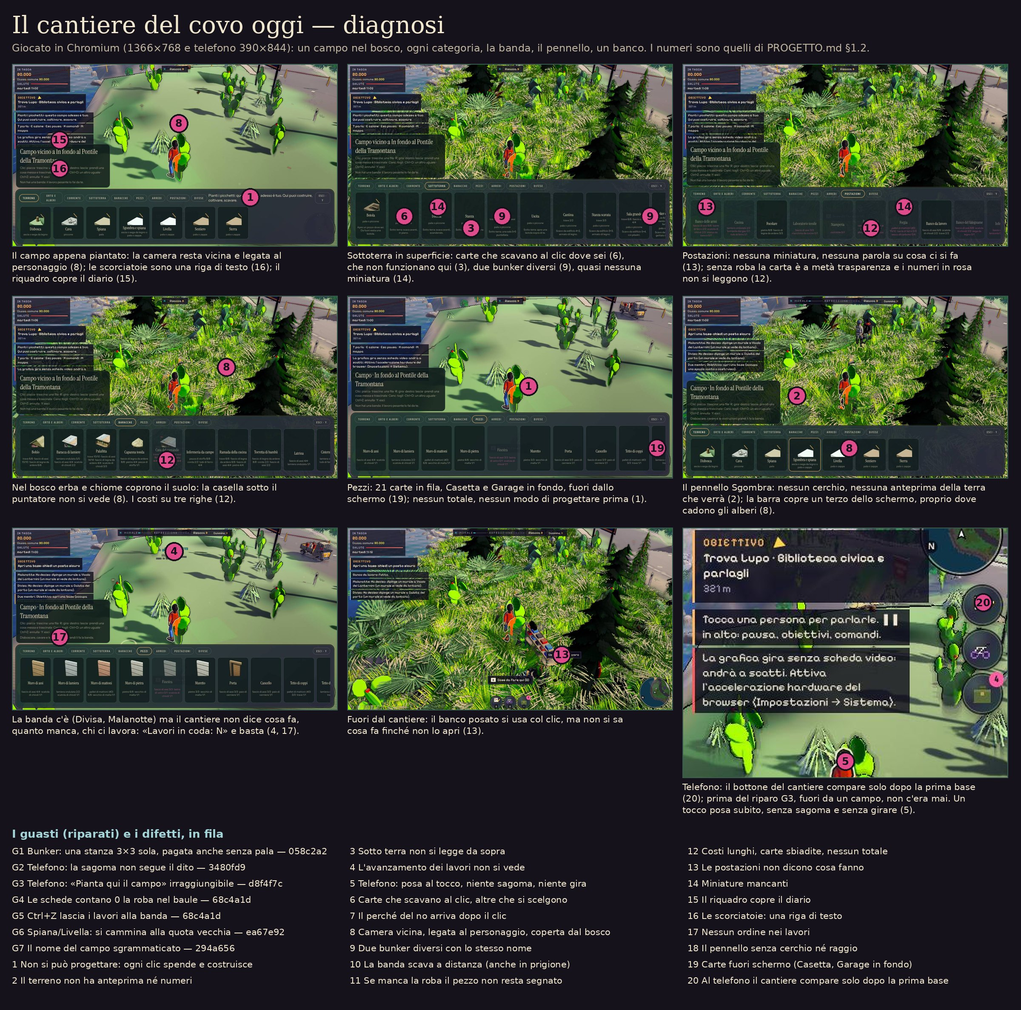
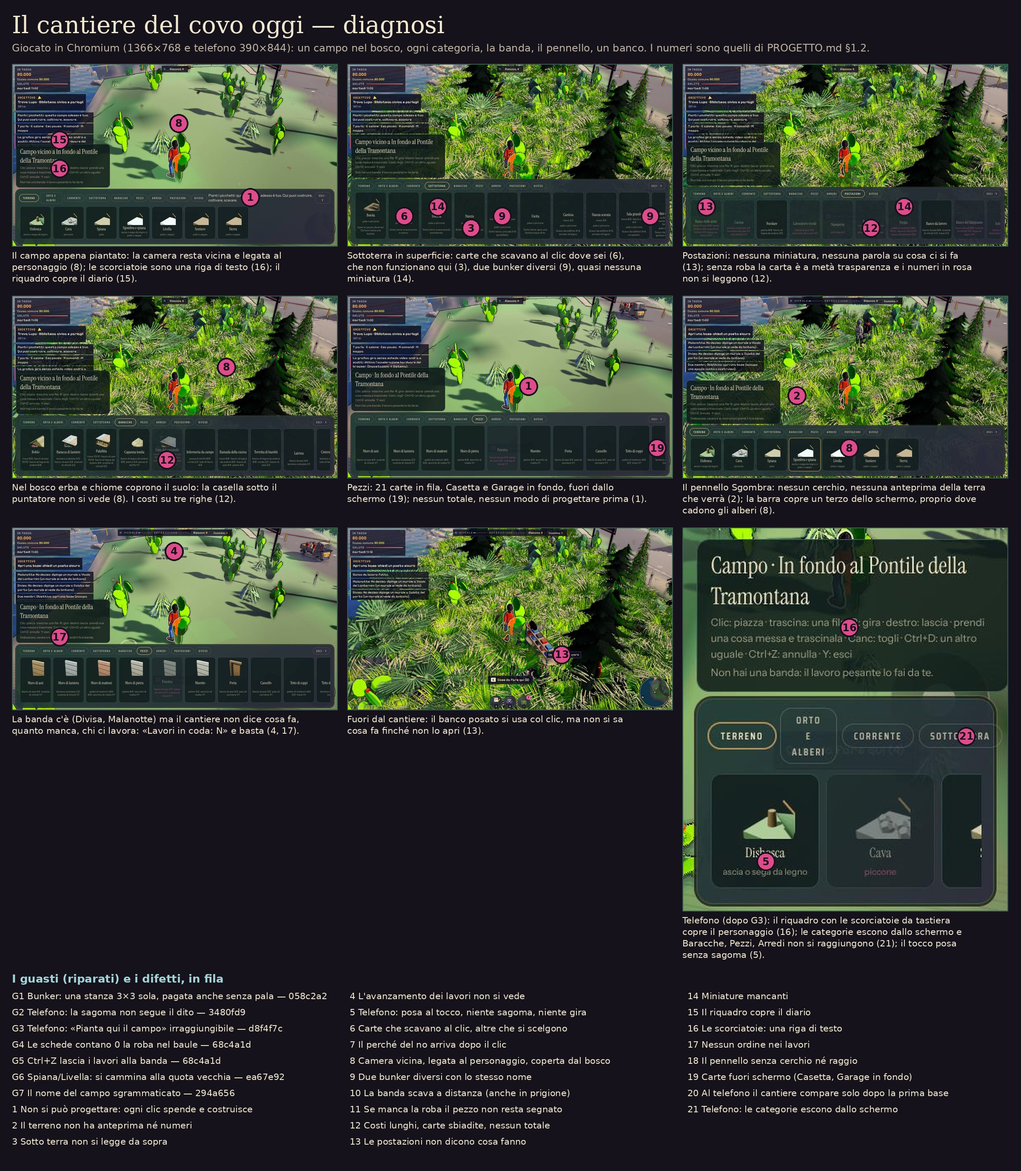
[progetto] diagnosi: il telefono provato (categorie fuori schermo); punti deboli e domande
Claude-Session: https://claude.ai/code/session_01HEgRdvDzPRTJ6i6GxVpTB4

diff --git a/v7/PROGETTO.md b/v7/PROGETTO.md
@@ -36,7 +36,7 @@ tracciato e scavato. In più la lettura del codice (`cantiere.js`, `livelli.js`,
 
 ### 1.2 Quello che non si capisce, non si legge, non si usa (in fila per gravità)
 
-Contati: **20** difetti di usabilità (più i 7 guasti). In fila: prima quelli che impediscono di fare quello che la richiesta
+Contati: **21** difetti di usabilità (più i 7 guasti). In fila: prima quelli che impediscono di fare quello che la richiesta
 chiede, poi quelli che fanno sbagliare, poi quelli che rallentano.
 
 **Impediscono**
@@ -77,6 +77,8 @@ chiede, poi quelli che fanno sbagliare, poi quelli che rallentano.
     (nella prova il clic sulla Casetta è caduto fuori).
 20. **Al telefono il cantiere compare solo dopo la prima base** (`orienta.js`, lo svelare piano): sul computer la Y funziona da subito
     ma nessuno lo dice. È una scelta, non un guasto: va bene, ma allora serve dirlo quando la base arriva.
+21. **Al telefono le categorie escono dallo schermo**: la fila di pillole non va a capo e non scorre; Baracche, Pezzi, Arredi,
+    Postazioni non si toccano. Il riquadro in alto mostra le scorciatoie da tastiera e copre il personaggio.
 
 Note sulla prova: con SwiftShader un fotogramma costa 4–6 s a 1366×768, una schermata 1–2 minuti; per questo la banda al lavoro,
 lo scavo e il banco aperto si sono provati anche in Node (`test_cantiere.js`, `test_progetto.js`) e leggendo il codice.
@@ -251,4 +253,29 @@ Aprire il gioco con `?progetto` nell'indirizzo (per esempio `index.html?progetto
 
 ## 5. Punti deboli e domande aperte
 
-<!-- DEBOLI -->
+**Punti deboli (onesti)**
+- **Provato poco su schermo vero.** Qui il browser gira in SwiftShader: 3–6 s a fotogramma, una schermata 1–2 minuti. La logica è
+  provata in Node (50 prove), la grafica e i gesti in poche passate guidate; il trascinamento lungo, il pizzico e la torsione al
+  telefono, la sensazione della camera vanno provati su una scheda vera e su un telefono vero.
+- **Le misure di costo sono di SwiftShader** (il fotogramma lì è dominato dal resto della scena): dicono che la vista non aggiunge
+  niente di misurabile, non quanti ms costa su Iris Xe. Il conto dei disegni e dei triangoli è quello che conta (§3.1).
+- **La camera è quella dell'editor** (`ui.focus` + la vista dall'alto di `ui.top`): funziona, ma la pendenza «di sbieco» non si
+  regola e la distanza segue lo zoom del gioco; con la camera7 il passaggio dentro/fuori non è sfumato.
+- **La sezione di sotto vela il mondo ma non lo taglia**: non c'è un vero piano di taglio nel terreno (servirebbe toccare render.js).
+  Le gallerie vere si vedono entro 34 caselle dal centro della vista.
+- **Gli scavi hanno il fondo piatto.** Una galleria prende la quota del cunicolo a cui si aggancia; per scendere di livello serve un
+  pozzo nuovo (o J/K a mano). Mancano rampe e scale nel progetto.
+- **I pezzi «in corso» non sono solidi** finché non sono finiti (la gente ci passa attraverso); il garage e le baracche diventano veri
+  in un colpo alla fine (prima: l'ologramma che si riempie).
+- **La banda non scende sotto terra**: per uno scavo il membro va sopra lo scavo e ci «lavora» da lì (come prima, ma almeno ci va).
+- **La terra non è un materiale**: lo scavo non dà terra e il riporto non la chiede (si dice soltanto quanti m³).
+- **Il cantiere di prima resta** (dentro casa, l'orto, le azioni sul posto): due modi di costruire convivono.
+
+**Domande per te**
+1. La vista deve **sostituire** il cantiere di prima all'aperto (come adesso con `?progetto`) o stare accanto (un tasto in più)?
+2. **La roba**: si paga tutta quando il pezzo comincia (adesso), o a pezzi mentre si costruisce (più realistico, ma la distinta si legge peggio)?
+3. **La terra** deve diventare un materiale (sacchi di terra da portare per i riporti, da buttare per gli scavi)?
+4. **Il giocatore che lavora**: basta stare lì (adesso), o vuoi un gesto (tenere premuto, un'animazione col martello)?
+5. **Al telefono** il bottone del cantiere compare solo dopo la prima base (orienta.js): con la vista progettuale va anticipato?
+6. Il colore dell'ologramma: **cielo** (proposto) o un colore riservato nuovo da aggiungere alla Bibbia (il cielo c'è anche nel mondo)?
+
